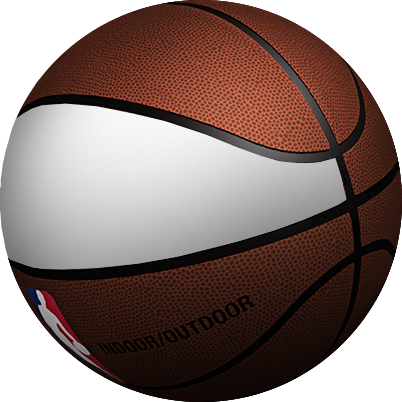
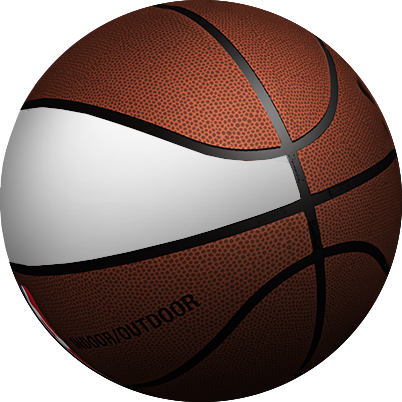
custom made

diff --git a/skin/frontend/default/spalding/css/74-602yc/zns_style_ball.css b/skin/frontend/default/spalding/css/74-602yc/zns_style_ball.css
@@ -57,7 +57,7 @@
 
 /*1-8*/
 .big_pic li .imgPag_1.imgPag_1_8{
-	margin-left:-460px;
+	margin-left:-450px;
 	-webkit-transform: rotateY(-20deg);
 	z-index: 2;
 	top:98px;
@@ -99,12 +99,12 @@
 .big_pic li .imgPag_1.imgPag_1_11{
 	margin-left:-555px;
 	-webkit-transform: rotateY(-45deg);
-	z-index: 2;
+	z-index: 1;
 }
 .big_pic li .imgPag_2.imgPag_2_11{
-	margin-left: -30px;
+	margin-left: -20px;
     -webkit-transform: rotateY(-12deg);
-    z-index: 1;
+    z-index: 2;
 
 }
 
@@ -112,12 +112,12 @@
 .big_pic li .imgPag_1.imgPag_1_12{
 	margin-left:-575px;
 	-webkit-transform: rotateY(-55deg);
-	z-index: 2;
+	z-index: 1;
 }
 .big_pic li .imgPag_2.imgPag_2_12{
 	margin-left: -90px;
     -webkit-transform: rotateY(-12deg);
-    z-index: 1;
+    z-index: 2;
     top:95px;
 
 }
@@ -126,12 +126,12 @@
 .big_pic li .imgPag_1.imgPag_1_13{
 	margin-left:-605px;
 	-webkit-transform: rotateY(-55deg);
-	z-index: 2;
+	z-index: 1;
 }
 .big_pic li .imgPag_2.imgPag_2_13{
 	margin-left: -130px;
     -webkit-transform: rotateY(-12deg);
-    z-index: 1;
+    z-index: 2;
     top:95px;
 
 }
@@ -140,12 +140,12 @@
 .big_pic li .imgPag_1.imgPag_1_14{
 	margin-left:-625px;
 	-webkit-transform: rotateY(-55deg);
-	z-index: 2;
+	z-index: 1;
 }
 .big_pic li .imgPag_2.imgPag_2_14{
 	margin-left: -170px;
     -webkit-transform: rotateY(-12deg);
-    z-index: 1;
+    z-index: 2;
     top:95px;
 
 }

diff --git a/skin/frontend/default/spalding/css/74-604yc/zns_style_ball.css b/skin/frontend/default/spalding/css/74-604yc/zns_style_ball.css
@@ -239,15 +239,15 @@
 
 /*1-23*/
 .big_pic li .imgPag_1.imgPag_1_23{
-	margin-left:-15px;
+	margin-left:15px;
 	-webkit-transform: rotateY(-15deg);
-	z-index: 1;
+	z-index: 2;
 	top:97px;
 }
 .big_pic li .imgPag_2.imgPag_2_23{
 	margin-left: -540px;
     -webkit-transform: rotateY(-15deg);
-    z-index: 2;
+    z-index: 1;
     top:93px;
 }
 
@@ -255,13 +255,13 @@
 .big_pic li .imgPag_1.imgPag_1_24{
 	margin-left:-50px;
 	-webkit-transform: rotateY(-10deg);
-	z-index: 1;
+	z-index: 2;
 	top:97px;
 }
 .big_pic li .imgPag_2.imgPag_2_24{
 	margin-left: -610px;
     -webkit-transform: rotateY(-25deg);
-    z-index: 2;
+    z-index: 1;
     top:93px;
 }
 
@@ -269,13 +269,13 @@
 .big_pic li .imgPag_1.imgPag_1_25{
 	margin-left:-100px;
 	-webkit-transform: rotateY(-5deg);
-	z-index: 1;
+	z-index: 2;
 	top:97px;
 }
 .big_pic li .imgPag_2.imgPag_2_25{
 	margin-left: -640px;
     -webkit-transform: rotateY(-35deg);
-    z-index: 2;
+    z-index: 1;
     top:95px;
 }
 
@@ -283,13 +283,13 @@
 .big_pic li .imgPag_1.imgPag_1_26{
 	margin-left:-140px;
 	-webkit-transform: rotateY(-5deg);
-	z-index: 1;
+	z-index: 2;
 	top:97px;
 }
 .big_pic li .imgPag_2.imgPag_2_26{
 	margin-left: -655px;
     -webkit-transform: rotateY(-45deg);
-    z-index: 2;
+    z-index: 1;
     top:95px;
 }
 
